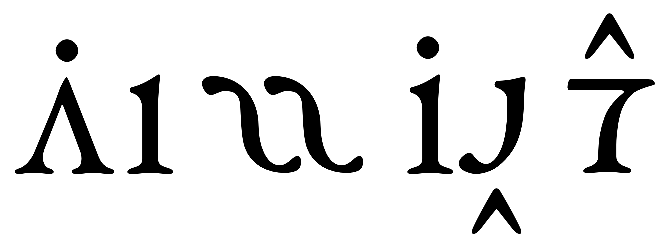
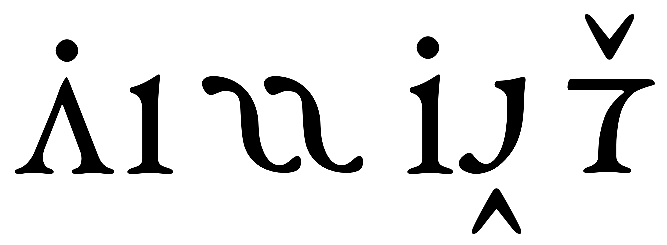
*

Changed region(s): [[0.8696, 0.0571, 0.9595, 0.2571]]

diff --git a/site/solresol.html b/site/solresol.html
@@ -457,20 +457,21 @@ many ways: By displaying from a distance enlarged versions of the stenographic
 signs or the first seven numbers hollowed out and illuminated, if at night.
 Or, by displaying bright lanterns or fires of the 7 colors.</p>
 
-<img src='../media/refs/xylophone.jpg' style='width: 400px' alt='xylophone'/>
-
 <table border='1' style='float:right; margin-left:30px'>
-	<tr><th colspan='3'>Frequencies(Hz)</th></tr>
-	<tr><td class='note_do'>Do</td><td class='note_do'>C</td><td class='note_do'>261.6</td></tr>
-	<tr><td class='note_re'>Re</td><td class='note_re'>D</td><td class='note_re'>293.7</td></tr>
-	<tr><td class='note_mi'>Mi</td><td class='note_mi'>E</td><td class='note_mi'>329.6</td></tr>
-	<tr><td class='note_fa'>Fa</td><td class='note_fa'>F</td><td class='note_fa'>349.2</td></tr>
-	<tr><td class='note_sol'>Sol</td><td class='note_sol'>G</td><td class='note_sol'>392.0</td></tr>
-	<tr><td class='note_la'>La</td><td class='note_la'>A</td><td class='note_la'>440.0</td></tr>
-	<tr><td class='note_si'>Si</td><td class='note_si'>B</td><td class='note_si'>493.9</td></tr>
+	<tr><th colspan='3'><a href='binary.html'>binary</a></th><th colspan='3'>Frequencies(Hz)</th></tr>
+	<tr><td>0</td><td>0</td><td>0</td><td></td><td></td><td>silence</td></tr>
+	<tr><td>0</td><td>0</td><td>1</td><td class='note_do'>Do</td><td class='note_do'>C</td><td class='note_do'>261.6</td></tr>
+	<tr><td>0</td><td>1</td><td>0</td><td class='note_re'>Re</td><td class='note_re'>D</td><td class='note_re'>293.7</td></tr>
+	<tr><td>0</td><td>1</td><td>1</td><td class='note_mi'>Mi</td><td class='note_mi'>E</td><td class='note_mi'>329.6</td></tr>
+	<tr><td>1</td><td>0</td><td>0</td><td class='note_fa'>Fa</td><td class='note_fa'>F</td><td class='note_fa'>349.2</td></tr>
+	<tr><td>1</td><td>0</td><td>1</td><td class='note_sol'>Sol</td><td class='note_sol'>G</td><td class='note_sol'>392.0</td></tr>
+	<tr><td>1</td><td>1</td><td>0</td><td class='note_la'>La</td><td class='note_la'>A</td><td class='note_la'>440.0</td></tr>
+	<tr><td>1</td><td>1</td><td>1</td><td class='note_si'>Si</td><td class='note_si'>B</td><td class='note_si'>493.9</td></tr>
 </table>
 
-<h3>Calligraphy</h3>
+<img src='../media/refs/xylophone.jpg' style='width:360px' alt='xylophone'/>
+
+<h3 id='calligraphy'>Calligraphy</h3>
 
 <p>The <a href='shavian.html'>Shavian alphabet</a> was originally a constructed alphabet
 conceived as a way to provide phonemic orthography for the English language. It
@@ -497,17 +498,24 @@ the Curwen hand shapes.</p>
 </tr>
 </table>
 
-<figure  style='width:130px;float:right;margin-left:15px'>
+<figure style='width:130px;float:right;margin-left:15px'>
 	<img src='../media/refs/solresol_mifare.png'/>
 	<figcaption style='text-align:center'><i>mifare</i></figcaption>
 </figure>
 
 <p>An alphabet to match Solresol's unique characteristics utilizes the similarity of specific glyphs and hand gestures that represent each sound. The following works by accenting letters based on their chromatic distance from the next, so that in every two syllables, the second sound is present merely as an accent to the first.</p>
 
-<img src='../media/refs/solresol_calligraphy.png' style='width:400px'/>
+<figure style='width:400px;margin-left:15px'>
+	<img src='../media/refs/solresol_dore_faremi.png'/>
+	<figcaption style='text-align:center'><i>dore faremi, dorefa remi</i></figcaption>
+</figure>
 
 <p>This plays on the particularity of Solresol of being written entirely with only 7 characters, so that with 3 diacritics(the dot, the diaeresis, and circumflex) placed above a letter to represent the distance of a higher note(+1, +2, +3), and below for a lower note(-1, -2, -3); each word can be written in only as few strokes that is required and rival the density of natural languages.</p>
 
+<figure style='width:400px;margin-left:15px'>
+	<img src='../media/refs/solresol_calligraphy.png'/>
+	<figcaption style='text-align:center'><i>mifare, solsol remisifa fasi</i></figcaption>
+</figure>
 <h3>Accessibility</h3>
 
 <p>To communicate to a deaf-mute, one can take the hand of a blind
@@ -525,25 +533,6 @@ understand what we're doing. It engages another part of our brains, which means
 that we work more actively and understand what we're doing. </p>
 
 <img src='../media/refs/solfa.png' style='width: 400px'/>
-
-<!--
-@|encoding -->
-
-<h3>Encoding</h3>
-
-<p>A <a href='binary.html'>3-bit</a> expression of Solresol is capable of packing 7 syllables, a stop.</p>
-
-<table border='1'>
-	<tr><th colspan='3'>binary</th><th>octal</th></tr>
-	<tr><td>0</td><td>0</td><td>0</td><td>0</td><td>space</td></tr>
-	<tr><td>0</td><td>0</td><td>1</td><td>1</td><td class='note_do'>do</td></tr>
-	<tr><td>0</td><td>1</td><td>0</td><td>2</td><td class='note_re'>re</td></tr>
-	<tr><td>0</td><td>1</td><td>1</td><td>3</td><td class='note_mi'>mi</td></tr>
-	<tr><td>1</td><td>0</td><td>0</td><td>4</td><td class='note_fa'>fa</td></tr>
-	<tr><td>1</td><td>0</td><td>1</td><td>5</td><td class='note_sol'>sol</td></tr>
-	<tr><td>1</td><td>1</td><td>0</td><td>6</td><td class='note_la'>la</td></tr>
-	<tr><td>1</td><td>1</td><td>1</td><td>7</td><td class='note_si'>si</td></tr>
-</table>
 
 <ul>
 	<li><a href='https://www.sidosi.org/wiki/Official_examples' target='_blank'>Official Examples</a></li>

diff --git a/src/htm/solresol.htm b/src/htm/solresol.htm
@@ -449,20 +449,21 @@ many ways: By displaying from a distance enlarged versions of the stenographic
 signs or the first seven numbers hollowed out and illuminated, if at night.
 Or, by displaying bright lanterns or fires of the 7 colors.</p>
 
-<img src='../media/refs/xylophone.jpg' style='width: 400px' alt='xylophone'/>
-
 <table border='1' style='float:right; margin-left:30px'>
-	<tr><th colspan='3'>Frequencies(Hz)</th></tr>
-	<tr><td class='note_do'>Do</td><td class='note_do'>C</td><td class='note_do'>261.6</td></tr>
-	<tr><td class='note_re'>Re</td><td class='note_re'>D</td><td class='note_re'>293.7</td></tr>
-	<tr><td class='note_mi'>Mi</td><td class='note_mi'>E</td><td class='note_mi'>329.6</td></tr>
-	<tr><td class='note_fa'>Fa</td><td class='note_fa'>F</td><td class='note_fa'>349.2</td></tr>
-	<tr><td class='note_sol'>Sol</td><td class='note_sol'>G</td><td class='note_sol'>392.0</td></tr>
-	<tr><td class='note_la'>La</td><td class='note_la'>A</td><td class='note_la'>440.0</td></tr>
-	<tr><td class='note_si'>Si</td><td class='note_si'>B</td><td class='note_si'>493.9</td></tr>
+	<tr><th colspan='3'><a href='binary.html'>binary</a></th><th colspan='3'>Frequencies(Hz)</th></tr>
+	<tr><td>0</td><td>0</td><td>0</td><td></td><td></td><td>silence</td></tr>
+	<tr><td>0</td><td>0</td><td>1</td><td class='note_do'>Do</td><td class='note_do'>C</td><td class='note_do'>261.6</td></tr>
+	<tr><td>0</td><td>1</td><td>0</td><td class='note_re'>Re</td><td class='note_re'>D</td><td class='note_re'>293.7</td></tr>
+	<tr><td>0</td><td>1</td><td>1</td><td class='note_mi'>Mi</td><td class='note_mi'>E</td><td class='note_mi'>329.6</td></tr>
+	<tr><td>1</td><td>0</td><td>0</td><td class='note_fa'>Fa</td><td class='note_fa'>F</td><td class='note_fa'>349.2</td></tr>
+	<tr><td>1</td><td>0</td><td>1</td><td class='note_sol'>Sol</td><td class='note_sol'>G</td><td class='note_sol'>392.0</td></tr>
+	<tr><td>1</td><td>1</td><td>0</td><td class='note_la'>La</td><td class='note_la'>A</td><td class='note_la'>440.0</td></tr>
+	<tr><td>1</td><td>1</td><td>1</td><td class='note_si'>Si</td><td class='note_si'>B</td><td class='note_si'>493.9</td></tr>
 </table>
 
-<h3>Calligraphy</h3>
+<img src='../media/refs/xylophone.jpg' style='width:360px' alt='xylophone'/>
+
+<h3 id='calligraphy'>Calligraphy</h3>
 
 <p>The <a href='shavian.html'>Shavian alphabet</a> was originally a constructed alphabet
 conceived as a way to provide phonemic orthography for the English language. It
@@ -496,10 +497,17 @@ the Curwen hand shapes.</p>
 
 <p>An alphabet to match Solresol's unique characteristics utilizes the similarity of specific glyphs and hand gestures that represent each sound. The following works by accenting letters based on their chromatic distance from the next, so that in every two syllables, the second sound is present merely as an accent to the first.</p>
 
-<img src='../media/refs/solresol_calligraphy.png' style='width:400px'/>
+<figure style='width:400px;margin-left:15px'>
+	<img src='../media/refs/solresol_dore_faremi.png'/>
+	<figcaption style='text-align:center'><i>dore faremi, dorefa remi</i></figcaption>
+</figure>
 
 <p>This plays on the particularity of Solresol of being written entirely with only 7 characters, so that with 3 diacritics(the dot, the diaeresis, and circumflex) placed above a letter to represent the distance of a higher note(+1, +2, +3), and below for a lower note(-1, -2, -3); each word can be written in only as few strokes that is required and rival the density of natural languages.</p>
 
+<figure style='width:400px;margin-left:15px'>
+	<img src='../media/refs/solresol_calligraphy.png'/>
+	<figcaption style='text-align:center'><i>mifare, solsol remisifa fasi</i></figcaption>
+</figure>
 <h3>Accessibility</h3>
 
 <p>To communicate to a deaf-mute, one can take the hand of a blind
@@ -517,25 +525,6 @@ understand what we're doing. It engages another part of our brains, which means
 that we work more actively and understand what we're doing. </p>
 
 <img src='../media/refs/solfa.png' style='width: 400px'/>
-
-<!--
-@|encoding -->
-
-<h3>Encoding</h3>
-
-<p>A <a href='binary.html'>3-bit</a> expression of Solresol is capable of packing 7 syllables, a stop.</p>
-
-<table border='1'>
-	<tr><th colspan='3'>binary</th><th>octal</th></tr>
-	<tr><td>0</td><td>0</td><td>0</td><td>0</td><td>space</td></tr>
-	<tr><td>0</td><td>0</td><td>1</td><td>1</td><td class='note_do'>do</td></tr>
-	<tr><td>0</td><td>1</td><td>0</td><td>2</td><td class='note_re'>re</td></tr>
-	<tr><td>0</td><td>1</td><td>1</td><td>3</td><td class='note_mi'>mi</td></tr>
-	<tr><td>1</td><td>0</td><td>0</td><td>4</td><td class='note_fa'>fa</td></tr>
-	<tr><td>1</td><td>0</td><td>1</td><td>5</td><td class='note_sol'>sol</td></tr>
-	<tr><td>1</td><td>1</td><td>0</td><td>6</td><td class='note_la'>la</td></tr>
-	<tr><td>1</td><td>1</td><td>1</td><td>7</td><td class='note_si'>si</td></tr>
-</table>
 
 <ul>
 	<li><a href='https://www.sidosi.org/wiki/Official_examples' target='_blank'>Official Examples</a></li>

diff --git a/site/2024.html b/site/2024.html
@@ -26,6 +26,7 @@ them with you!</q>
 	<ul>
 		<li>Progressed toward a <a href='https://git.sr.ht/~rabbits/markl' target='_blank'>Markl</a> prototype.</li>
 		<li>Improved <a href='https://git.sr.ht/~rabbits/uxnfor' target='_blank'>Uxnfor</a> so it better handles OOP style.</li>
+		<li>Designed a calligraphy system for <a href='solresol.html#calligraphy'>Solresol</a>.</li>
 		<li>Took care of many small tasks for the <a href='index.html'>wiki</a> that I
 had been putting off, such as improving categorizing and removing redundant
 pages.</li>

diff --git a/site/now.html b/site/now.html
@@ -45,6 +45,7 @@ them with you!</q>
 	<ul>
 		<li>Progressed toward a <a href='https://git.sr.ht/~rabbits/markl' target='_blank'>Markl</a> prototype.</li>
 		<li>Improved <a href='https://git.sr.ht/~rabbits/uxnfor' target='_blank'>Uxnfor</a> so it better handles OOP style.</li>
+		<li>Designed a calligraphy system for <a href='solresol.html#calligraphy'>Solresol</a>.</li>
 		<li>Took care of many small tasks for the <a href='index.html'>wiki</a> that I
 had been putting off, such as improving categorizing and removing redundant
 pages.</li>

diff --git a/src/htm/2024.htm b/src/htm/2024.htm
@@ -19,6 +19,7 @@ them with you!</q>
 	<ul>
 		<li>Progressed toward a <a href='https://git.sr.ht/~rabbits/markl' target='_blank'>Markl</a> prototype.</li>
 		<li>Improved <a href='https://git.sr.ht/~rabbits/uxnfor' target='_blank'>Uxnfor</a> so it better handles OOP style.</li>
+		<li>Designed a calligraphy system for <a href='solresol.html#calligraphy'>Solresol</a>.</li>
 		<li>Took care of many small tasks for the <a href='index.html'>wiki</a> that I
 had been putting off, such as improving categorizing and removing redundant
 pages.</li>
